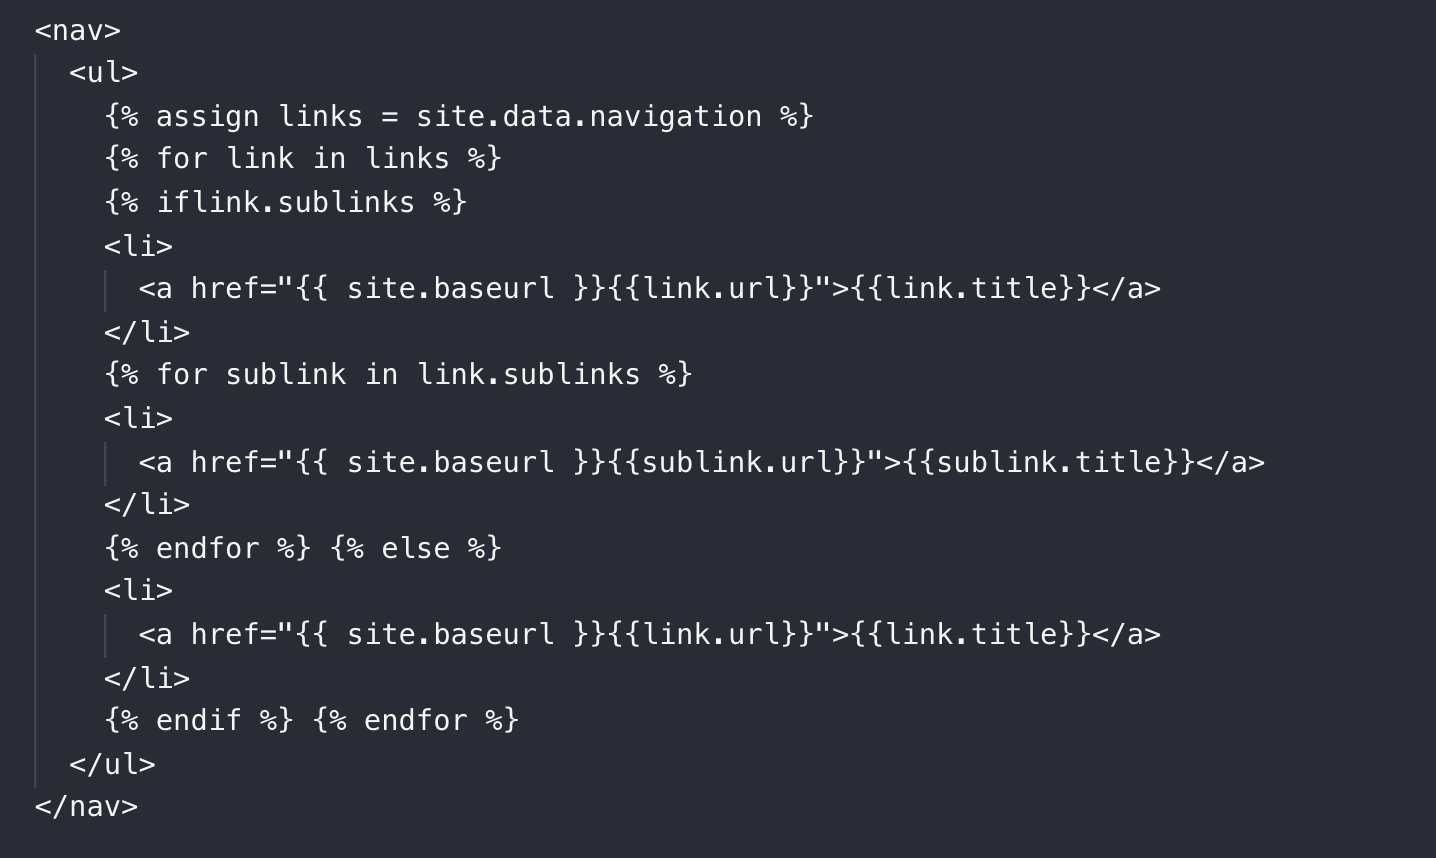
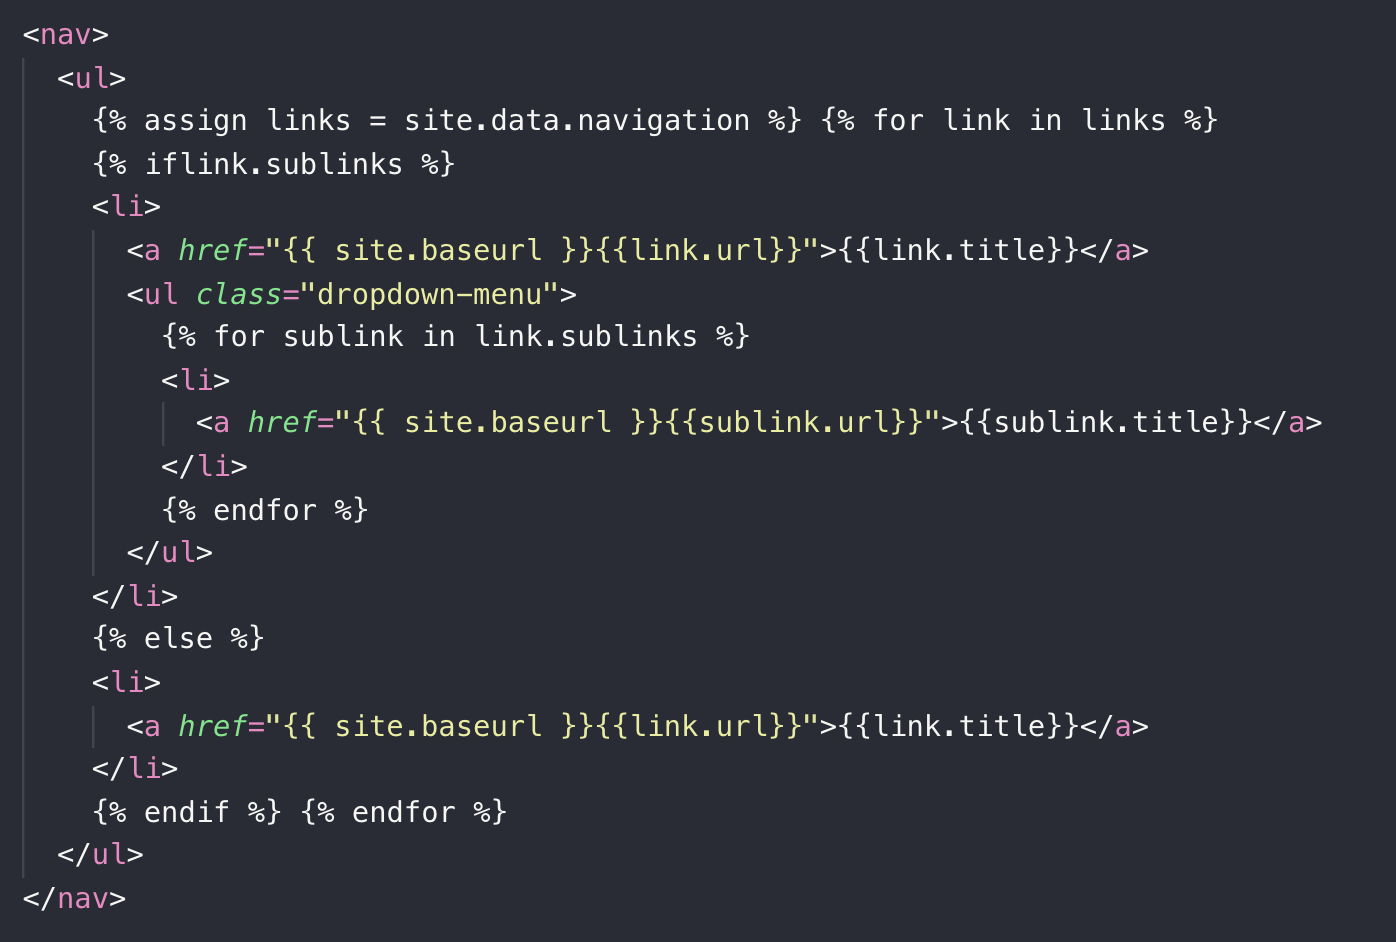
post_jekyll nav revised

diff --git a/_posts/2019-6-19-Jekyll 네비게이션 만들기.md b/_posts/2019-6-19-Jekyll 네비게이션 만들기.md
@@ -60,25 +60,4 @@ excerpt: 웹페이지나 블로그를 만들때, 가장 고민되는 부분 중 
 
 ![liquid/HTML nav for문](/images/nav_liqid_forLoop.png "liquid/HTML nav for문")
 
-위의 for loop으로 만들어지는 html 파일은 아래와 같다.
-
-```html
-<nav>
-  <ul>
-    {% assign links = site.data.navigation %} {% for link in links %} {% if
-    link.sublinks %}
-    <li>
-      <a href="{{ site.baseurl }}{{link.url}}">{{link.title}}</a>
-    </li>
-    {% for sublink in link.sublinks %}
-    <li>
-      <a href="{{ site.baseurl }}{{sublink.url}}">{{sublink.title}}</a>
-    </li>
-    {% endfor %} {% else %}
-    <li>
-      <a href="{{ site.baseurl }}{{link.url}}">{{link.title}}</a>
-    </li>
-    {% endif %} {% endfor %}
-  </ul>
-</nav>
-```
+먼저 상위 링크들의 리스트(link)가 만들어 지고, 각 리스트별로 하위 링크(sublink)가 있다면 해당 상위링크 하단에 하위링크 리스트가 만들어 지는 구조이다. 끄읕!! 🙆
